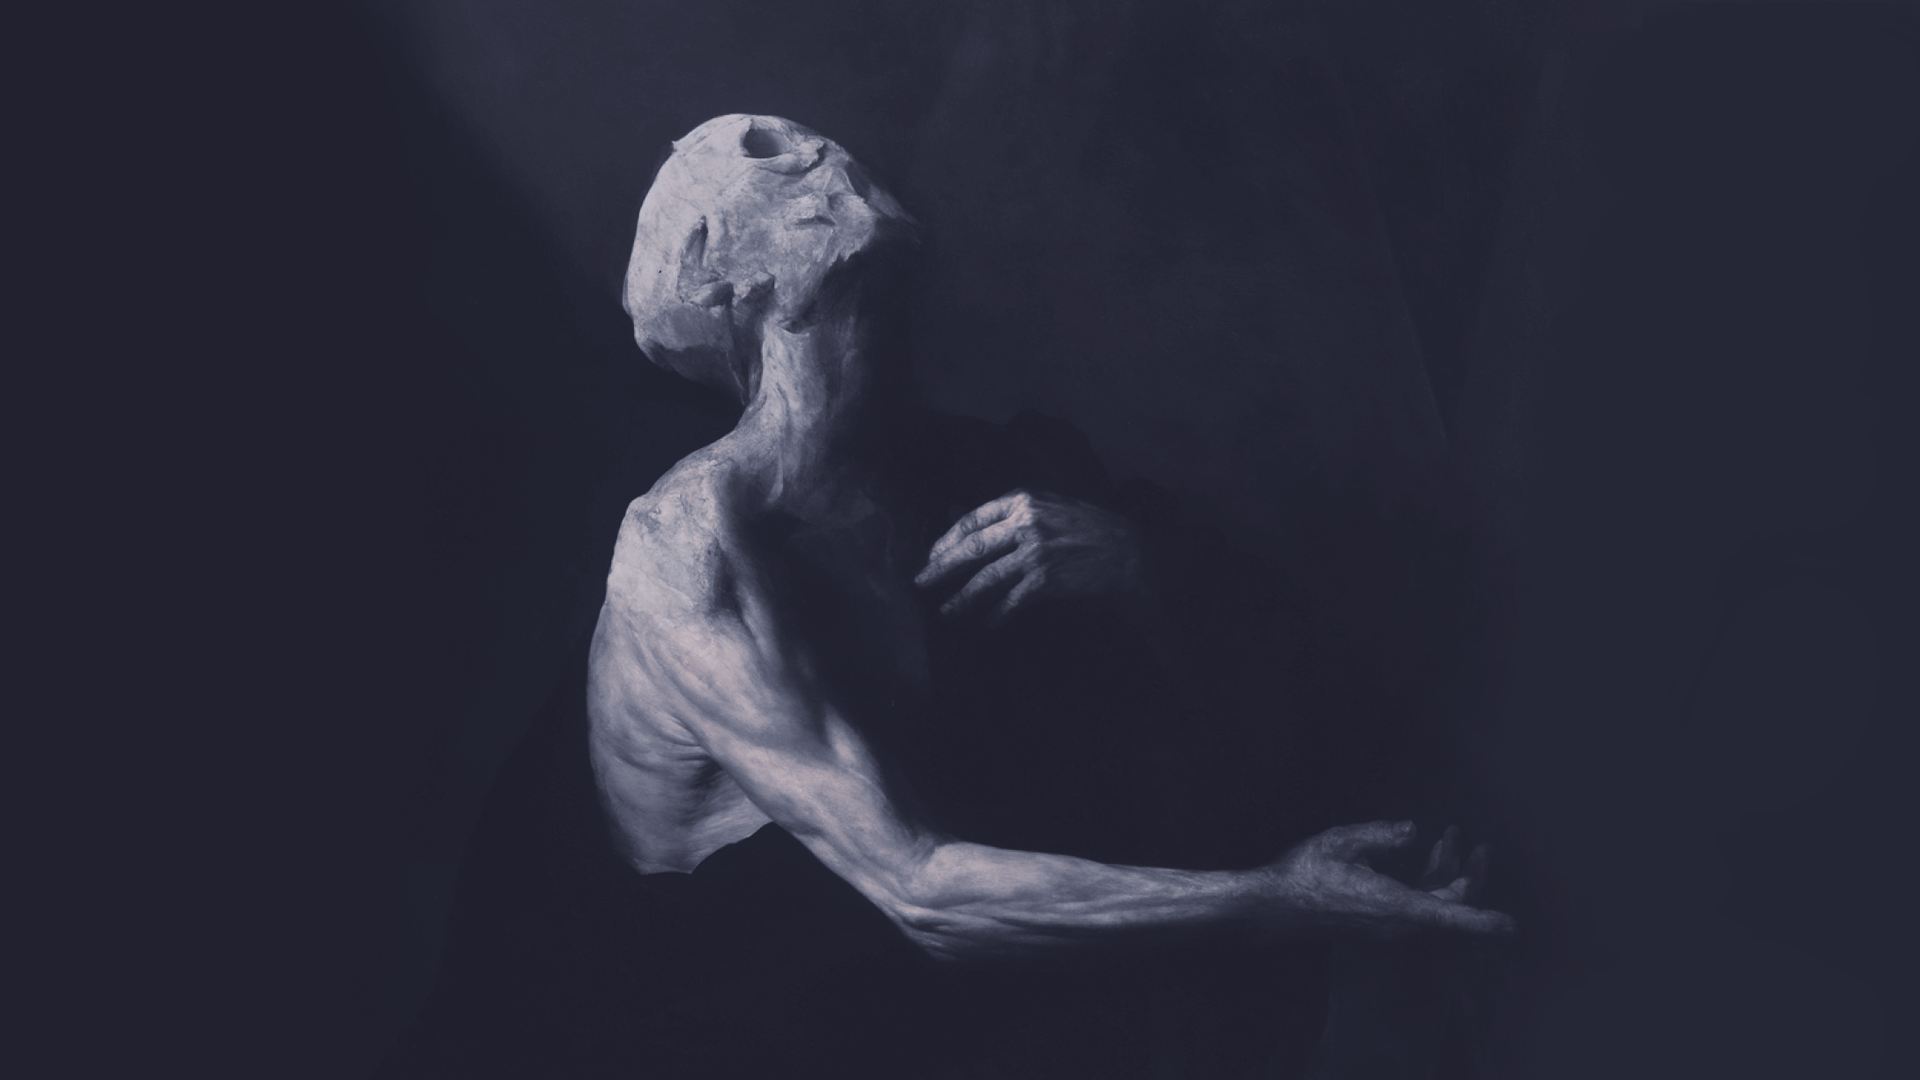
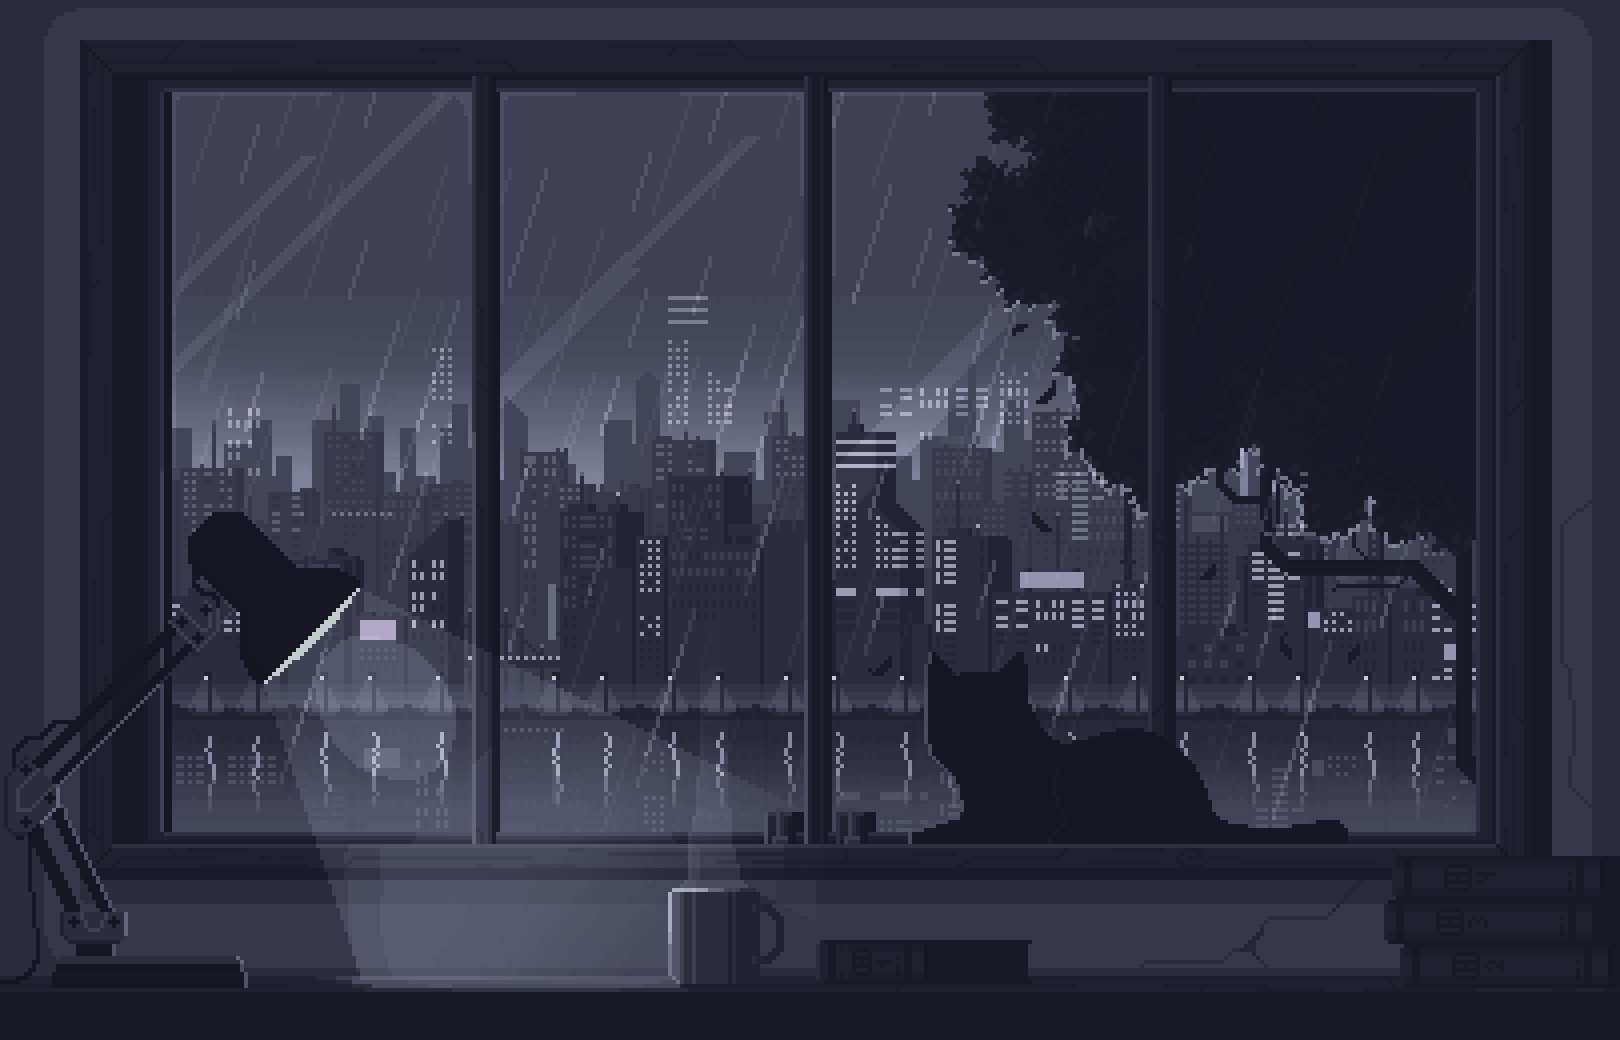
minor changes

diff --git a/.config/waybar/style.css b/.config/waybar/style.css
@@ -6,30 +6,22 @@
   font-size: 10px;
 }
 
-.modules-left {
-  margin-top: 5px;
-  margin-left: 6px;
-  background-color: @bg;
-  border-radius: 5px;
-}
-
+.modules-left,
 .modules-right {
-  margin-top: 5px;
-  margin-right: 6px;
   background-color: @bg;
   border-radius: 5px;
 }
 
 .modules-center {
-  margin-top: 5px;
   padding-left: 15px;
   padding-right: 15px;
   background-color: @bg;
   border-radius: 5px;
 }
 
-window#waybar {
-  background-color: transparent;
+#waybar {
+  /* background-color: transparent; */
+  background-color: @bg;
   color: @fg;
 }
 